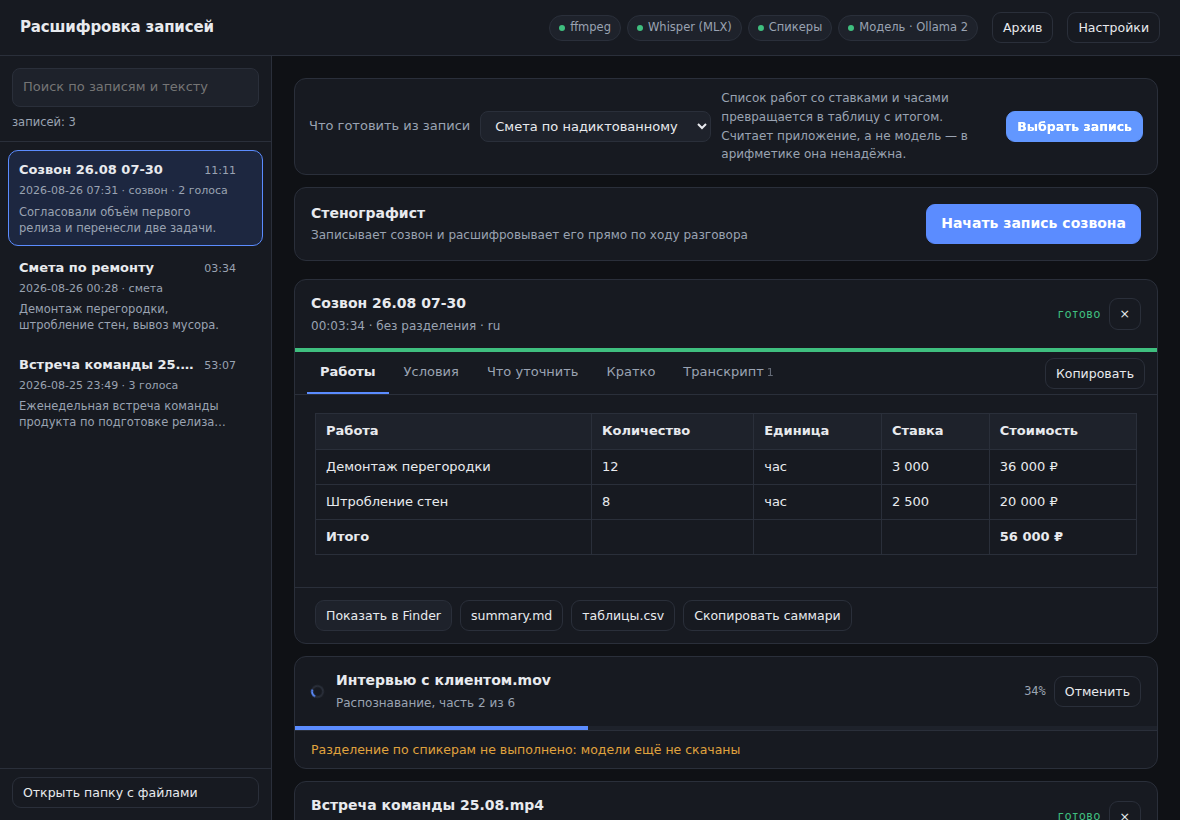
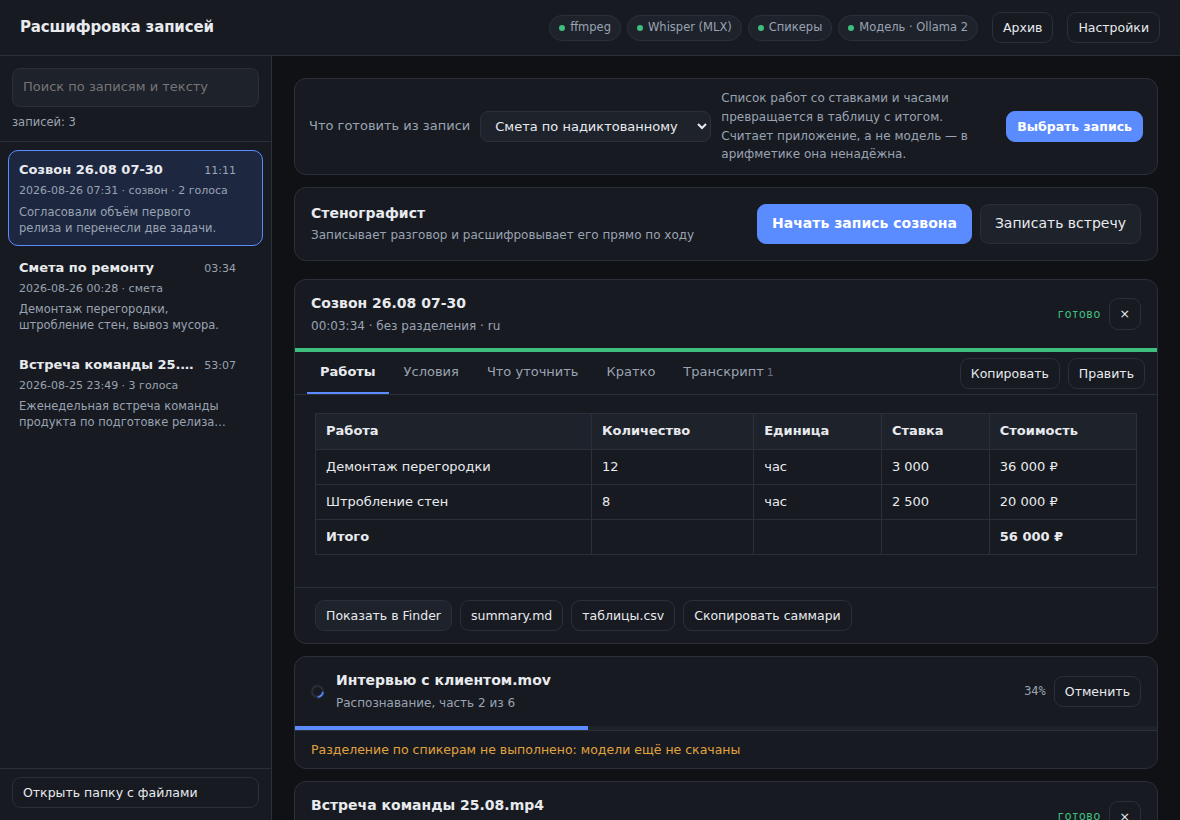
Свежие скриншоты интерфейса: запись встречи, участники, правка
Картинки в README отставали от кода на версию: на них не было ни кнопки
«Записать встречу», ни строки участников, ни «Править». Теперь снимки для
README делает та же проверка интерфейса — python tools/uicheck.py --docs,
— и отстать они больше не могут.

Changed region(s): [[0.3356, 0.2439, 0.9763, 0.3049], [0.8237, 0.4268, 0.9458, 0.4878]]

diff --git a/tools/uicheck.py b/tools/uicheck.py
@@ -193,10 +193,32 @@ window.pywebview = {api: {
 """
 
 
+DOCS_DIR = ROOT / "docs" / "screenshots"
+
+
+def docs_shot(page, scheme: str, want: str, name: str) -> None:
+    """Кладёт картинку в docs/screenshots — но только с флагом --docs.
+
+    Снимки для README снимаются здесь же, в проверке интерфейса: иначе они
+    отстают от кода на несколько версий, как и вышло с 1.0.0.
+    """
+    if "--docs" not in sys.argv or scheme != want:
+        return
+    # Прибираемся перед съёмкой: уводим курсор от кнопок и гасим всплывашку,
+    # оставшуюся от предыдущего клика, — на картинке для README она закрывает
+    # половину таблицы.
+    page.mouse.move(2, 2)
+    page.evaluate("document.querySelector('#toast')?.classList.remove('show')")
+    page.wait_for_timeout(400)
+    DOCS_DIR.mkdir(parents=True, exist_ok=True)
+    page.screenshot(path=str(DOCS_DIR / name))
+
+
 def main() -> int:
     from playwright.sync_api import sync_playwright
 
-    out_dir = Path(sys.argv[1] if len(sys.argv) > 1 else "/tmp/uicheck")
+    plain = [a for a in sys.argv[1:] if not a.startswith("--")]
+    out_dir = Path(plain[0] if plain else "/tmp/uicheck")
     out_dir.mkdir(parents=True, exist_ok=True)
 
     settings = {
@@ -280,6 +302,7 @@ def main() -> int:
                     errors.append(f"{scheme}: в панели записи нет «{probe}»")
             if not page.locator(".rec-dot").count():
                 errors.append(f"{scheme}: нет индикатора идущей записи")
+            docs_shot(page, scheme, "light", "main.png")
 
             # --- разметка голосов по ходу ---
             if page.locator(".person").count() < 2:
@@ -328,6 +351,7 @@ def main() -> int:
             if "56 000" not in (page.text_content("#pane-demo9999") or ""):
                 errors.append(f"{scheme}: в смете нет итога")
             page.screenshot(path=str(out_dir / f"7-estimate-{scheme}.png"), full_page=True)
+            docs_shot(page, scheme, "light", "estimate.png")
             page.evaluate("state.jobs.delete('demo9999'); render();")
             page.wait_for_timeout(100)
 
@@ -415,6 +439,7 @@ def main() -> int:
             page.click("#btn-pick-top")
             page.wait_for_timeout(120)
             page.screenshot(path=str(out_dir / f"9-library-{scheme}.png"))
+            docs_shot(page, scheme, "dark", "archive-dark.png")
             # удаление в два клика: первый спрашивает, второй убирает
             page.click('[data-libdel="lib3"]')
             page.wait_for_timeout(150)
